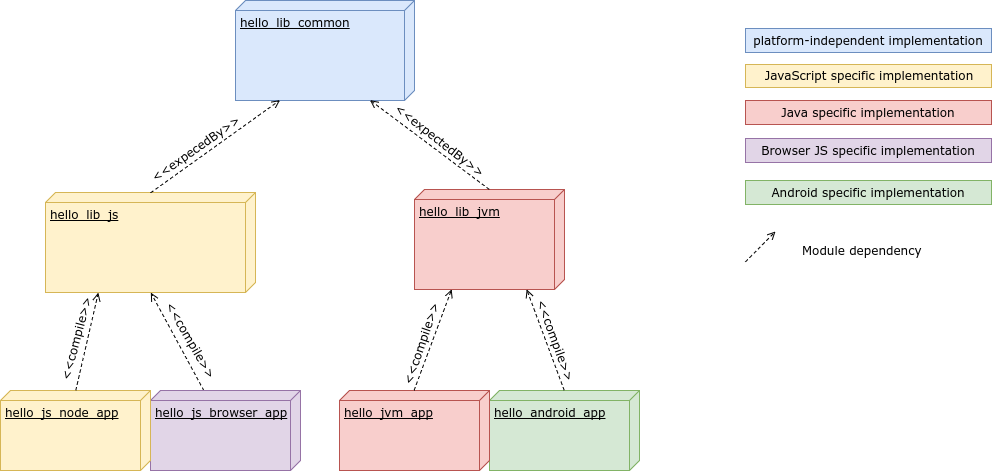
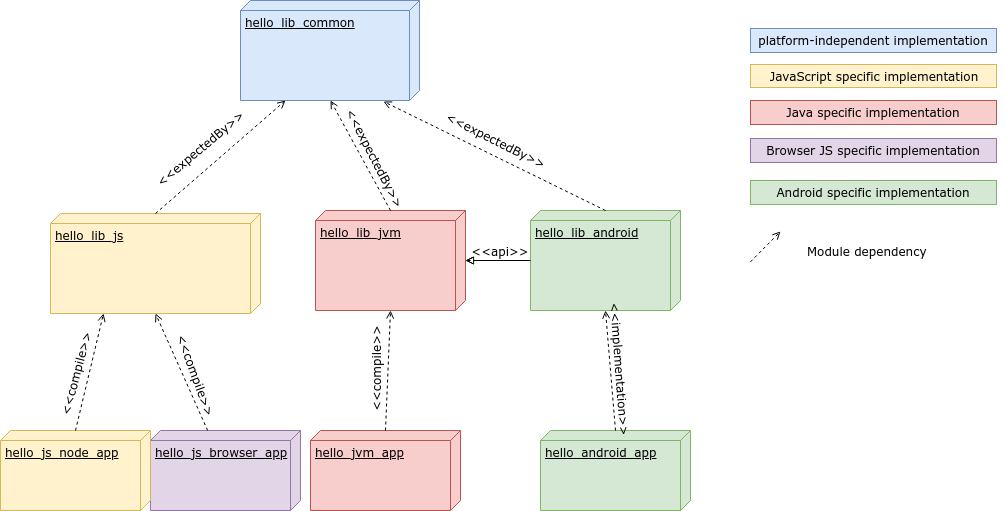
Updated docs for new Android specific platform module

diff --git a/README.md b/README.md
@@ -18,7 +18,7 @@ otlin](http://kotlinlang.org) is a programming language developed by [Jetbrains]
 
 
 ## Structure
-It's gradle multiple modules project. 
+It's the Gradle multiple modules project. 
 
 * ``hello_android_app`` - Android application module, it's compiled to DEX bytecode, it produces APK file upon build
 * ``hello_js_browser_app`` - application transpiled for frontend JavaScript, packed in [WebPack](https://webpack.js.org/), it's only statically served by Node.js
@@ -27,6 +27,7 @@ It's gradle multiple modules project.
 * ``hello_lib_common`` - common module, shared Kotlin source code, platform independent code
 * ``hello_lib_js`` - JavaScript runtimes platform dependent code
 * ``hello_lib_jvm`` - Java runtime platform dependent code 
+* ``hello_lib_android`` - Android runtime platform dependent code
 
 [Modules dependency](.images/diagram_simple.png)
 
